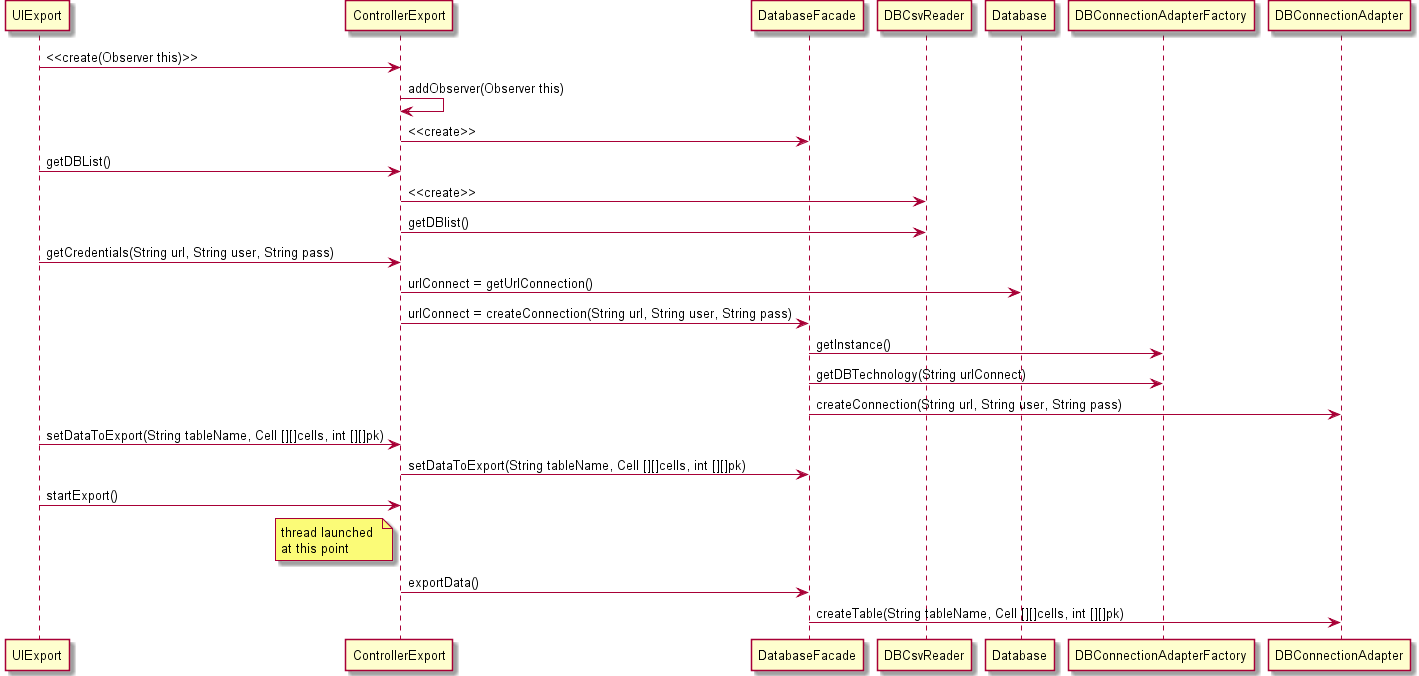
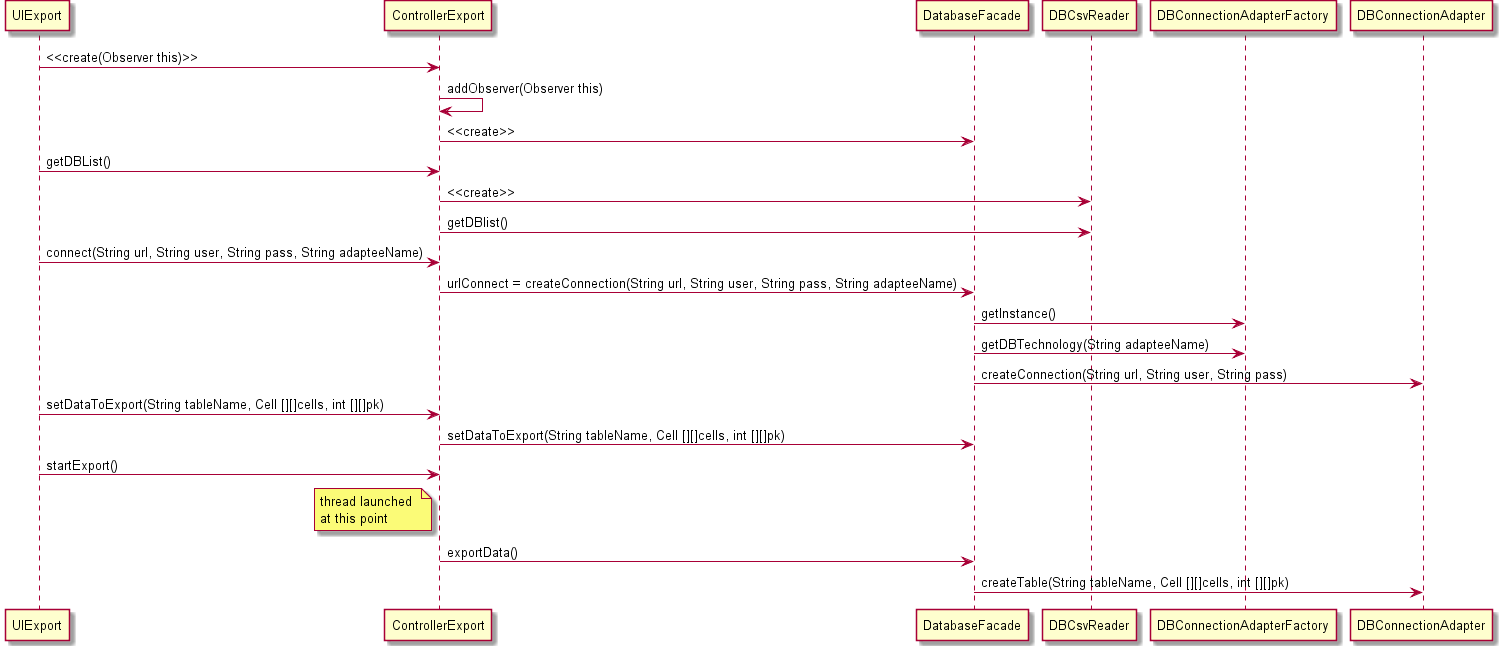
1111168: added new parameter (adapteeName) to sequence diagrams ref #5

diff --git a/src/csheets/ext/database/package-info.java b/src/csheets/ext/database/package-info.java
@@ -134,11 +134,10 @@ ControllerExport -> DatabaseFacade: <<create>>
 UIExport -> ControllerExport: getDBList()
 ControllerExport -> DBCsvReader: <<create>>
 ControllerExport -> DBCsvReader: getDBlist()
-UIExport -> ControllerExport: getCredentials(String url, String user, String pass)
-ControllerExport -> Database: urlConnect = getUrlConnection()
-ControllerExport -> DatabaseFacade: urlConnect = createConnection(String url, String user, String pass)
+UIExport -> ControllerExport: connect(String url, String user, String pass, String adapteeName)
+ControllerExport -> DatabaseFacade: urlConnect = createConnection(String url, String user, String pass, String adapteeName)
 DatabaseFacade -> DBConnectionAdapterFactory: getInstance()
-DatabaseFacade -> DBConnectionAdapterFactory: getDBTechnology(String urlConnect)
+DatabaseFacade -> DBConnectionAdapterFactory: getDBTechnology(String adapteeName)
 DatabaseFacade -> DBConnectionAdapter: createConnection(String url, String user, String pass)
 UIExport -> ControllerExport: setDataToExport(String tableName, Cell [][]cells, int [][]pk)
 ControllerExport -> DatabaseFacade: setDataToExport(String tableName, Cell [][]cells, int [][]pk)
